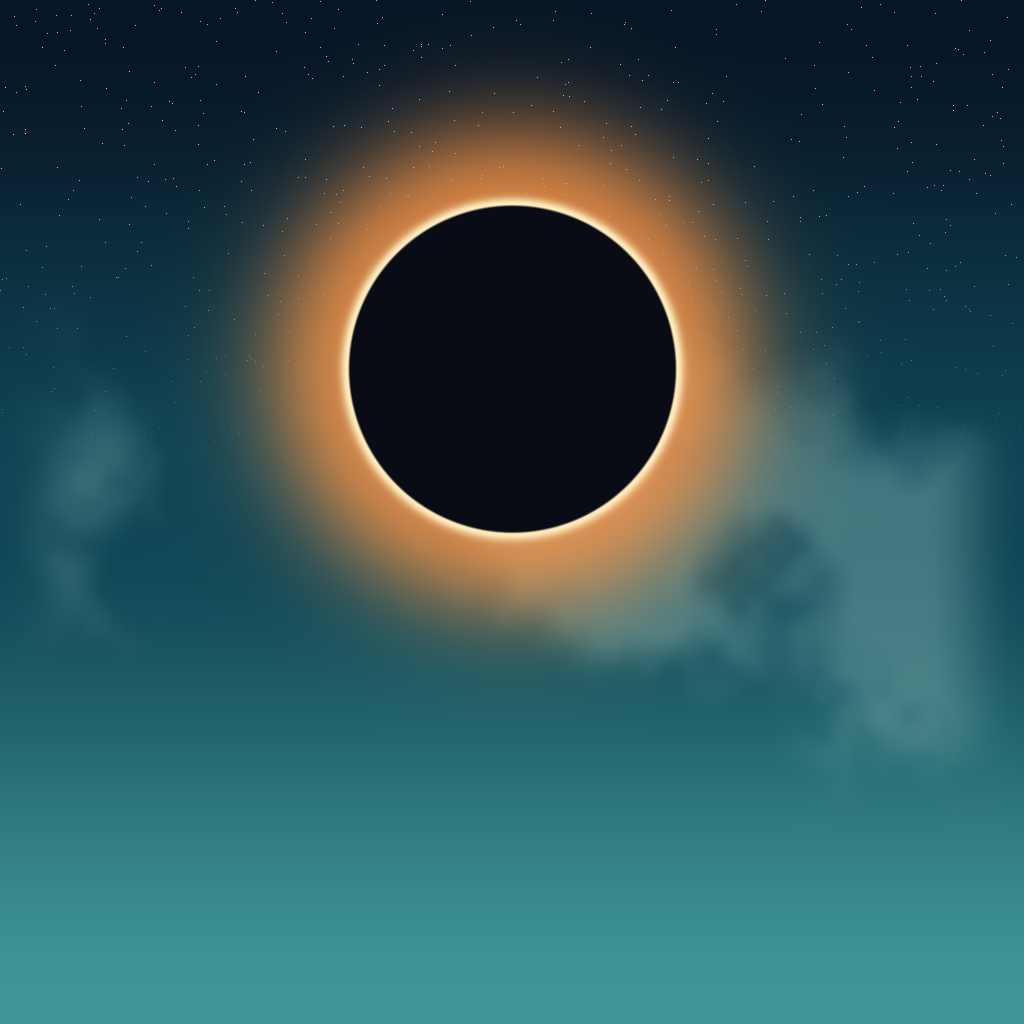
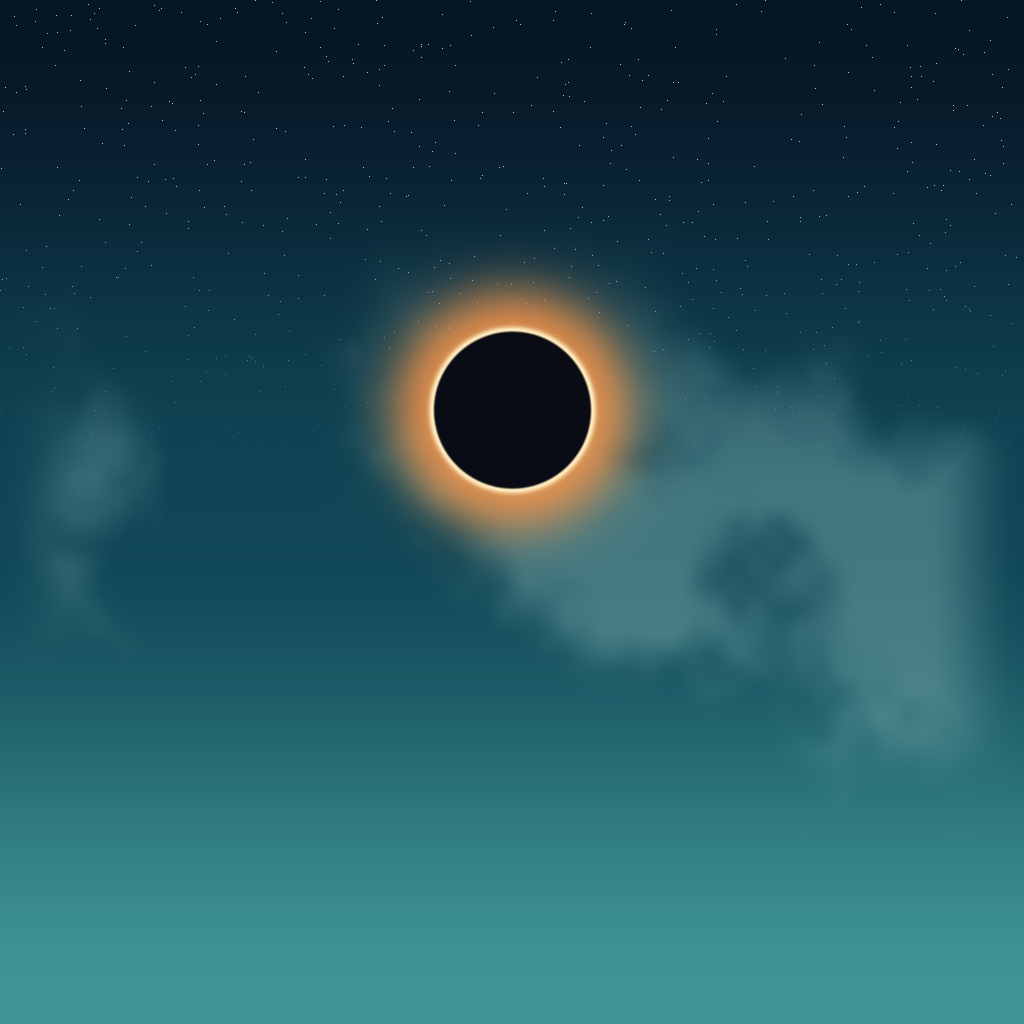
Linajes: eclipse mas chico

Changed region(s): [[0.1875, 0.0625, 0.8125, 0.6562]]

diff --git a/linajes/arte/scripts/efectos/cielo.py b/linajes/arte/scripts/efectos/cielo.py
@@ -45,11 +45,11 @@ def costado(luna=False):
     c += estrellas[..., None] * 170
     if luna:
         yy, xx = np.mgrid[0:T, 0:T].astype(np.float32)
-        d = np.hypot(xx - T * 0.5, yy - T * 0.36)
-        radio = 165
-        halo = np.exp(-(((d - radio) / 90) ** 2)) * 0.8
+        d = np.hypot(xx - T * 0.5, yy - T * 0.4)
+        radio = 80
+        halo = np.exp(-(((d - radio) / 46) ** 2)) * 0.8
         c = c * (1 - halo[..., None]) + np.array([255, 150, 70], np.float32) * halo[..., None]
-        anillo = np.exp(-(((d - radio) / 7) ** 2))
+        anillo = np.exp(-(((d - radio) / 4) ** 2))
         c = c * (1 - anillo[..., None]) + np.array([255, 236, 190], np.float32) * anillo[..., None]
         disco = paso(radio, radio - 3, d)
         c = c * (1 - disco[..., None]) + np.array([9, 12, 20], np.float32) * disco[..., None]
